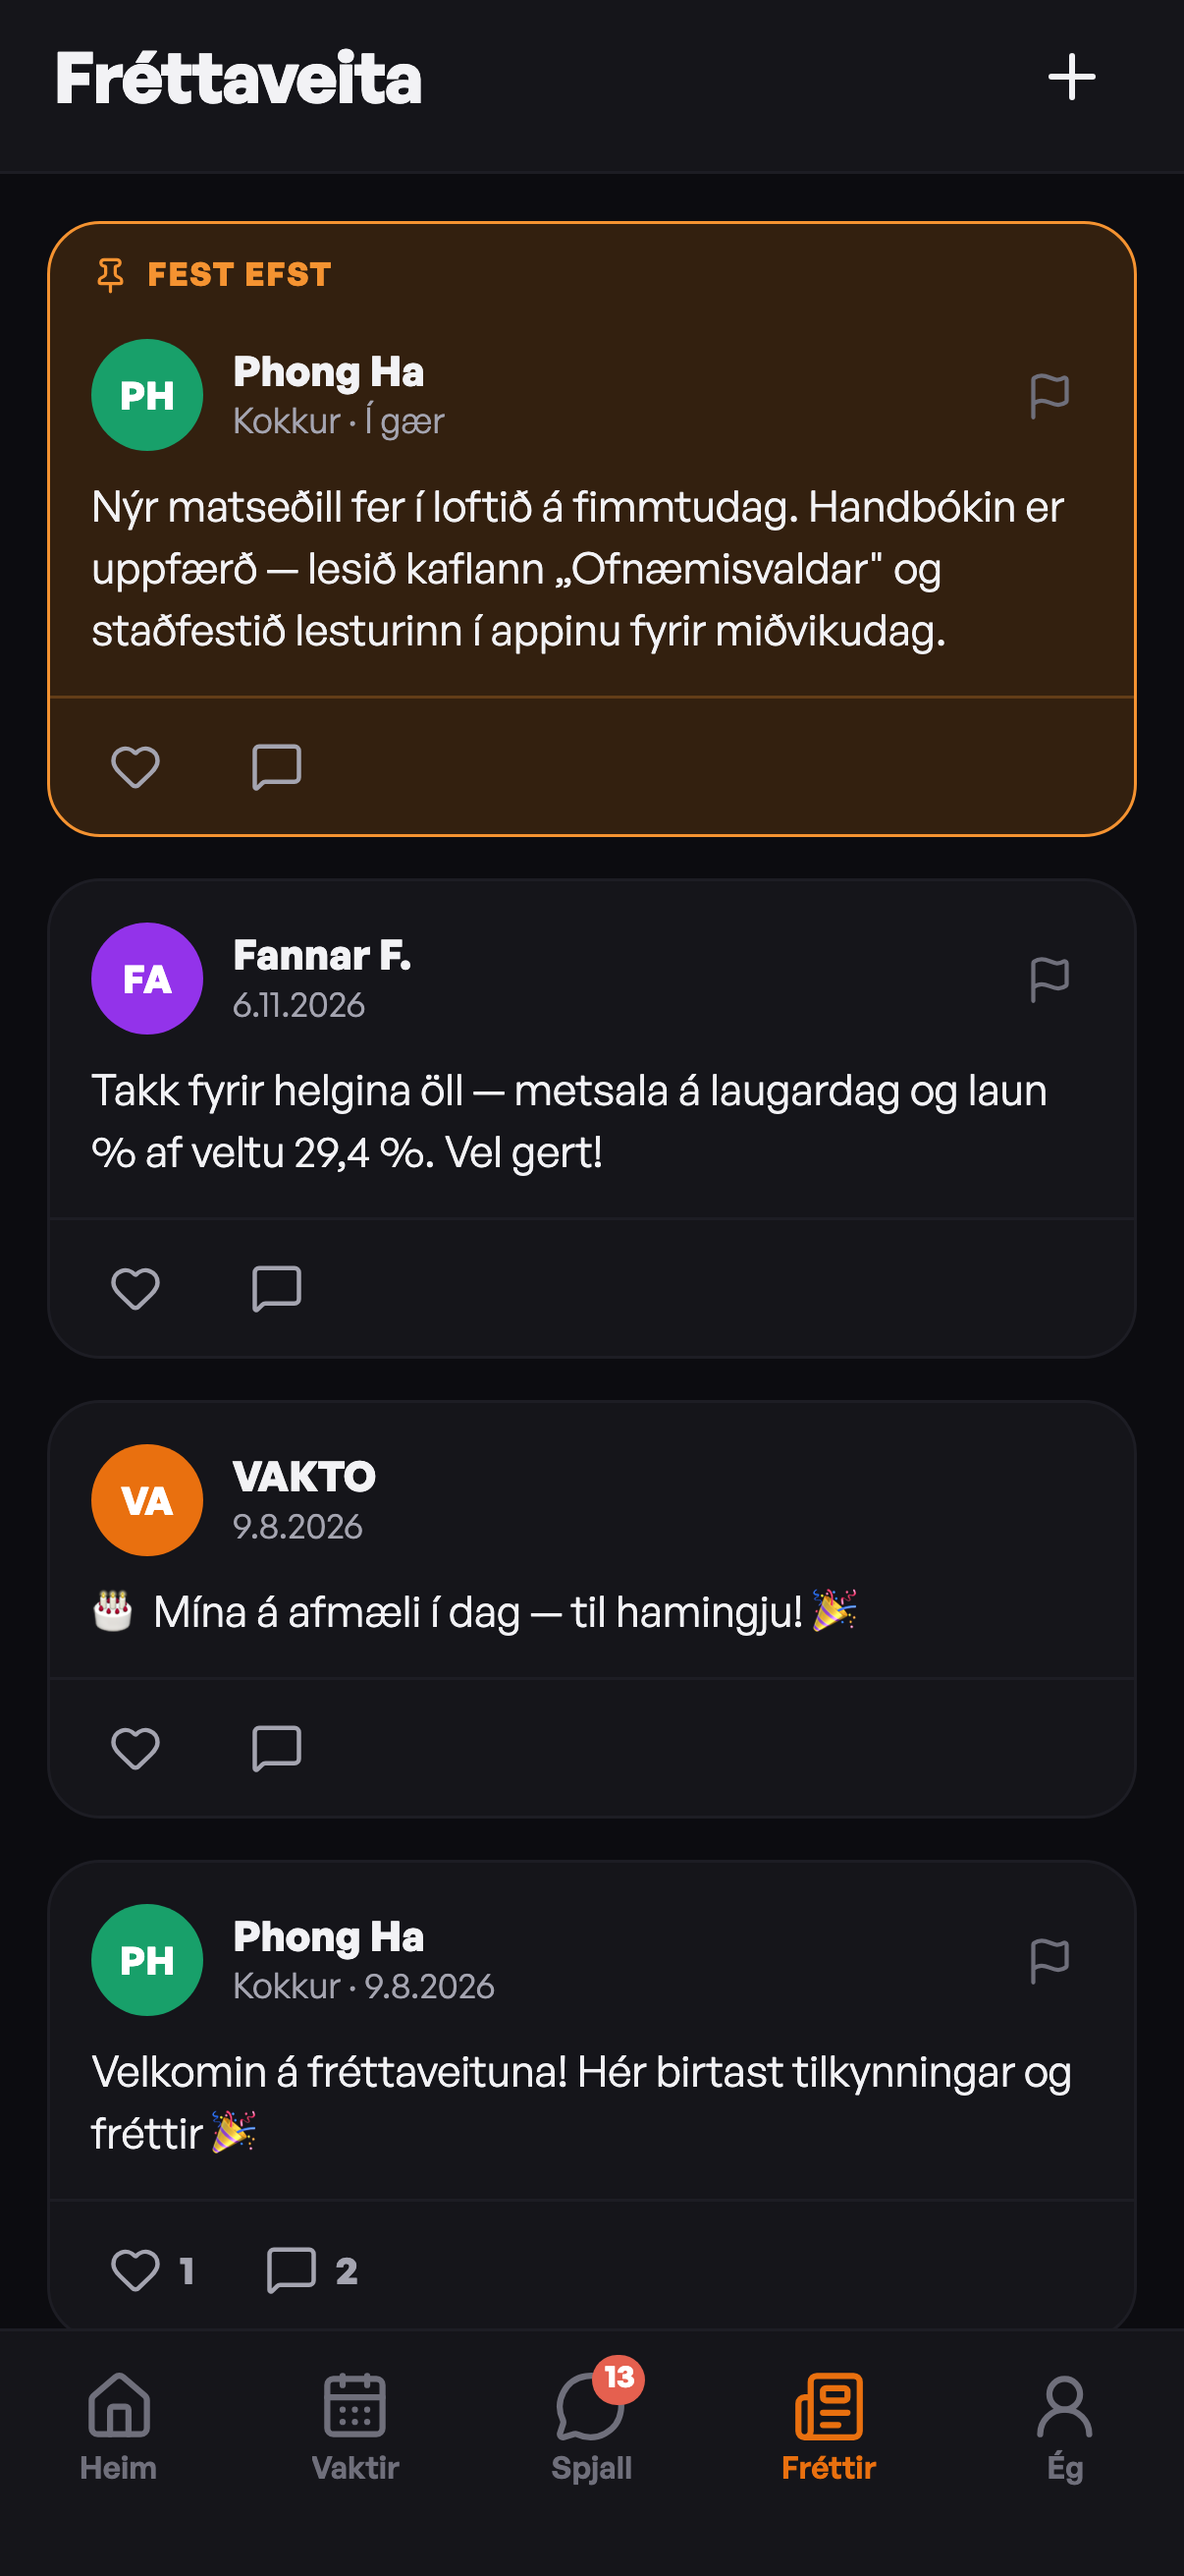
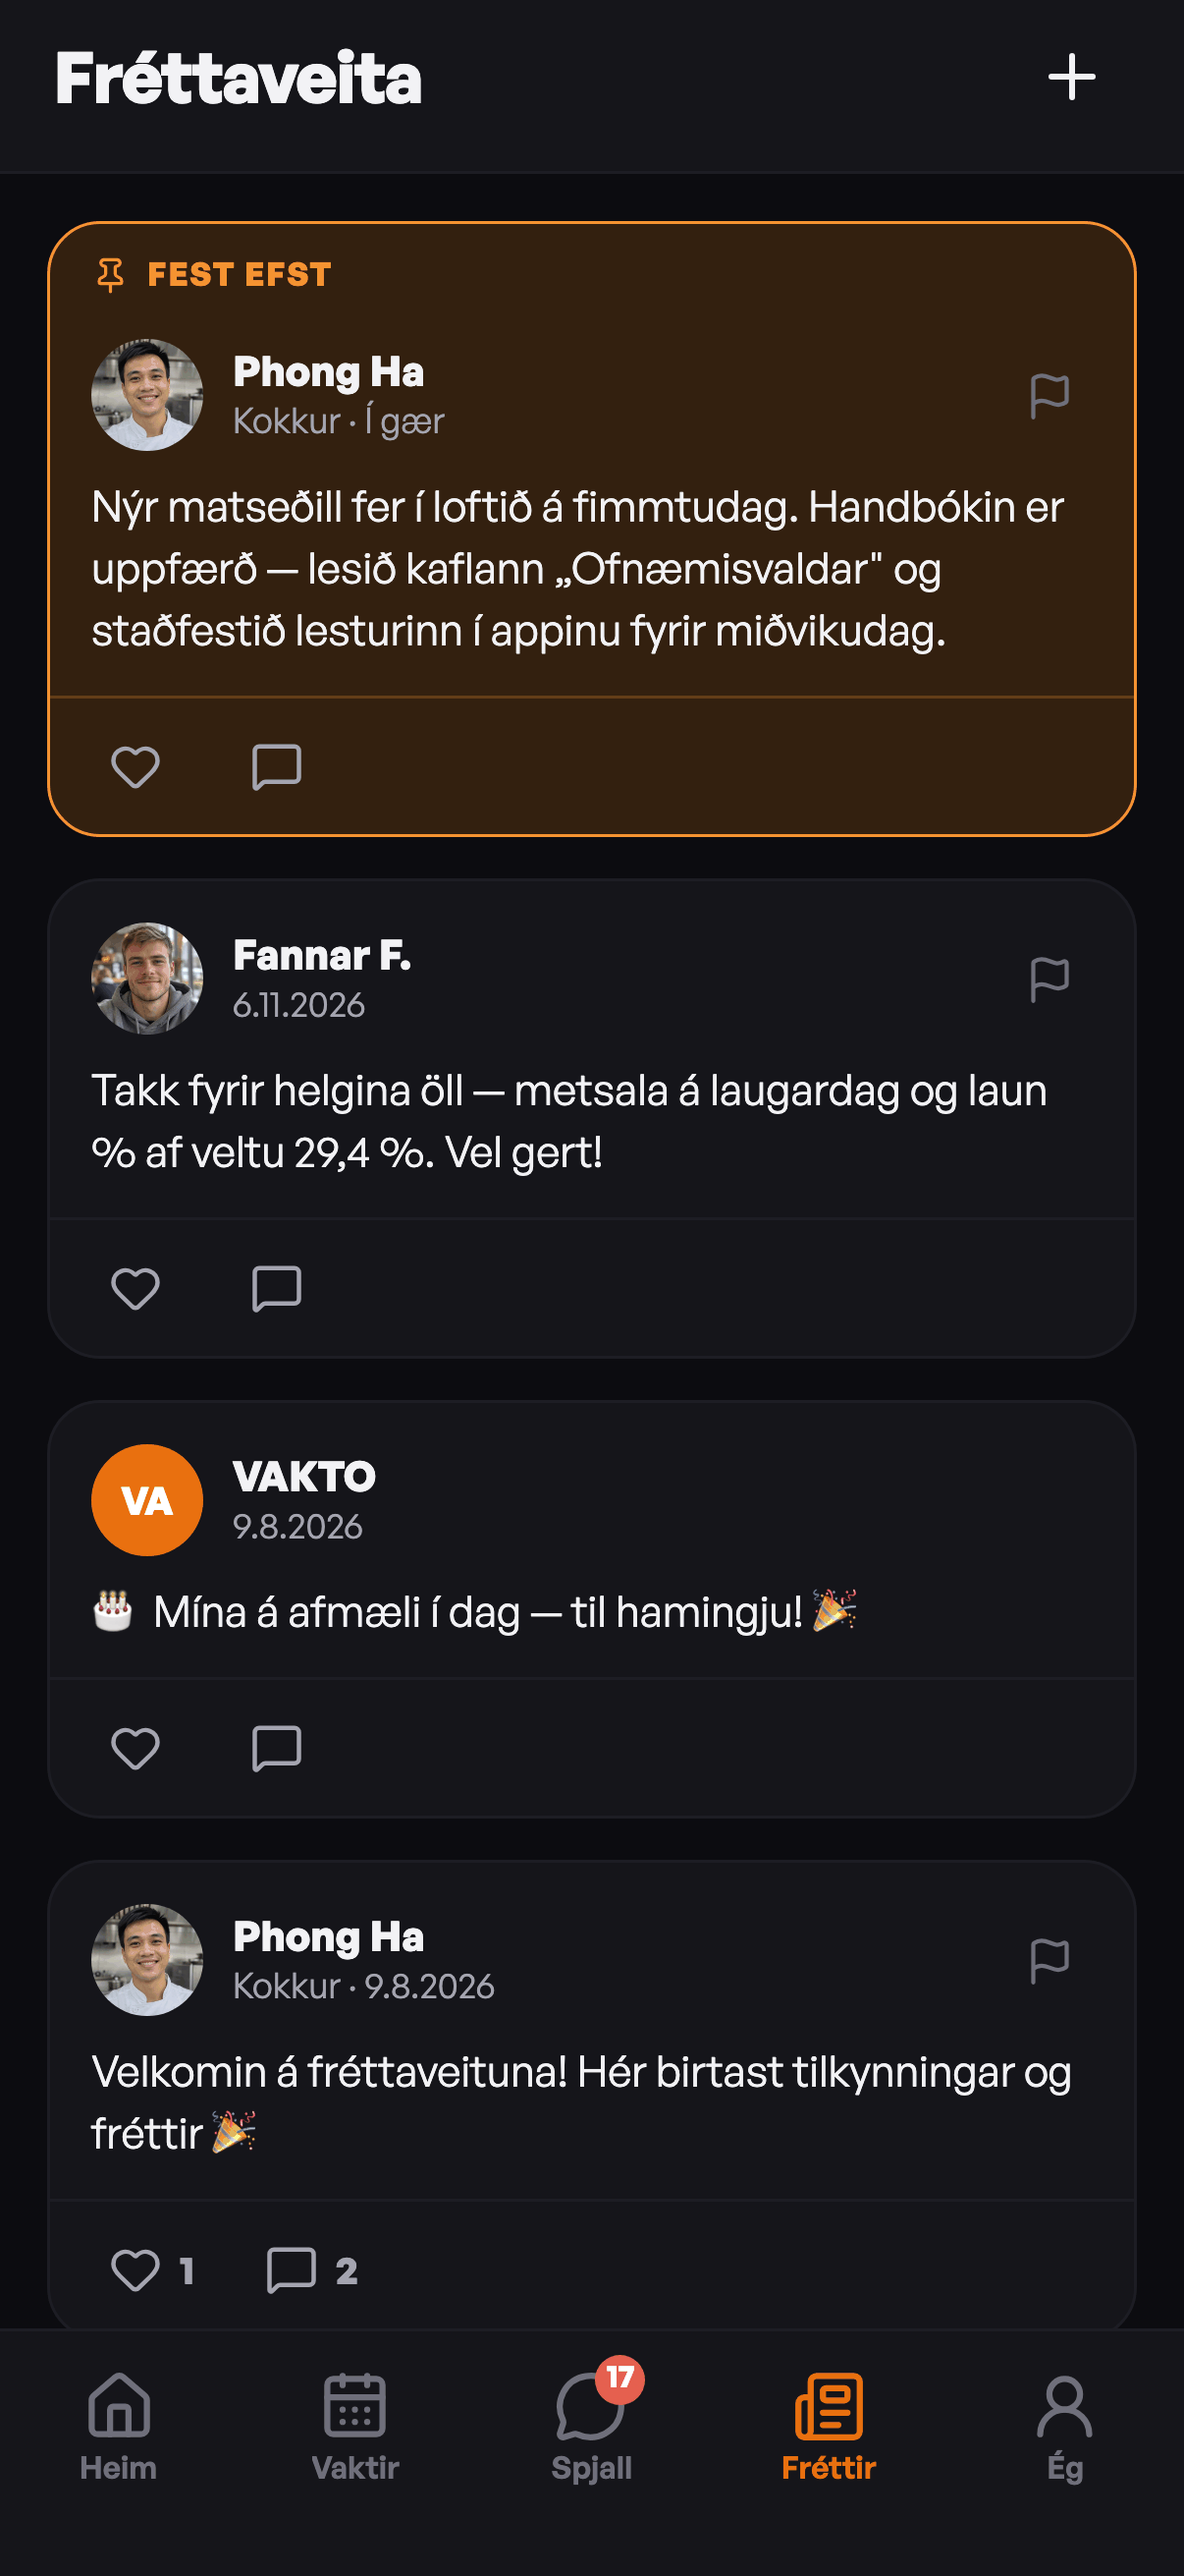
Heimasíðan: hvítur bakgrunnur við stöðustiku, myndir af starfsfólki og fleiri spjöll
- Skjárinn í símanum er nú hvítur (#fff) í ljósu og #15151a í dökku, eins og efsti hluti app-skjámyndanna, svo stöðustikan rennur saman við appið
- Nýjar skjámyndir (heim, vaktir, fréttir, spjall; IS/EN, ljóst/dökkt): demo-starfsfólk á staging hefur nú prófílmyndir og spjallið sýnir fleiri samtöl

Claude-Session: https://claude.ai/code/session_01MVytFXEaFmGzjbLo9LdgCS

diff --git a/src/components/site/home.css b/src/components/site/home.css
@@ -96,9 +96,9 @@ html:has(.ah),html:has(.ah) body,html:has(.ah-auth),html:has(.ah-auth) body{back
   background:linear-gradient(90deg,#9c3f08,#f39a52 45%,#c4540d)}
 .ah-phone-in::before{right:-.85cqw;top:27%;height:14%}
 .ah-phone-in::after{left:-.85cqw;top:19%;height:5%;box-shadow:0 9.5cqw 0 #d0600f,0 19cqw 0 #d0600f}
-.ah-screen{height:100%;border-radius:15.6cqw;overflow:hidden;background:#f5f5f7;
+.ah-screen{height:100%;border-radius:15.6cqw;overflow:hidden;background:#fff;
   border:3.1cqw solid #050506;padding-top:12.5cqw;box-shadow:0 0 0 .3cqw #1c1c1e}
-.ah-phone-dk .ah-screen{background:#0c0c0e}
+.ah-phone-dk .ah-screen{background:#15151a}
 .ah-dark .ah-phone-in{box-shadow:inset 0 0 0 .35cqw rgba(255,214,170,.55),inset 0 0 0 .75cqw rgba(120,45,0,.35),0 8cqw 24cqw -6cqw rgba(233,112,15,.5)}
 .ah-island{position:absolute;top:5.7cqw;left:50%;transform:translateX(-50%);width:30cqw;height:8.8cqw;border-radius:5cqw;background:#000;z-index:2}
 .ah-sb{position:absolute;top:4.7cqw;left:4.7cqw;right:4.7cqw;height:10.8cqw;display:flex;align-items:center;justify-content:space-between;
